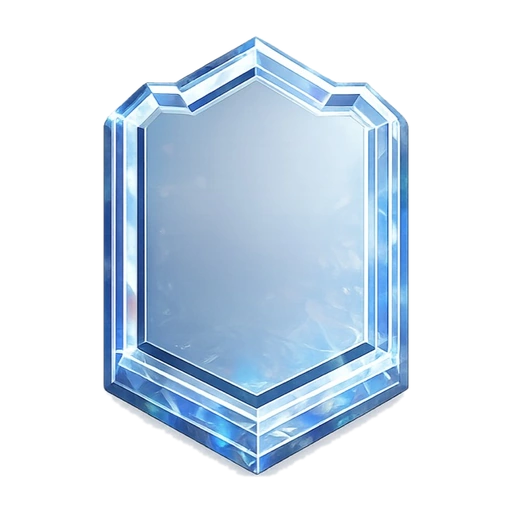
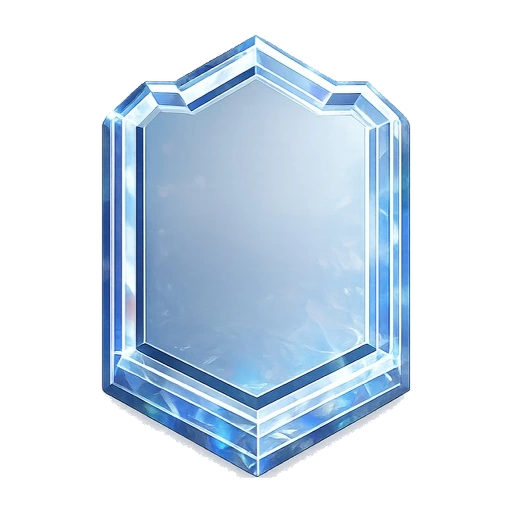
Polish badge edges and board density

Changed region(s): [[0.1875, 0.0625, 0.8125, 0.9375]]

diff --git a/templates/main.html b/templates/main.html
@@ -10,7 +10,7 @@
     <link rel="icon" type="image/png" sizes="192x192" href="{{ url_for('static', filename='assets/app-icon-192.png') }}?v=8">
     <link rel="manifest" href="{{ url_for('static', filename='manifest.webmanifest') }}?v=8">
     <title>Set Counter</title>
-    <link rel="stylesheet" href="{{ url_for('static', filename='css/style.css') }}?v=64">
+    <link rel="stylesheet" href="{{ url_for('static', filename='css/style.css') }}?v=65">
   </head>
   <body>
     <main class="app-shell" id="home">
@@ -28,7 +28,7 @@
           </div>
           <div class="home-profile-row">
             <p class="user-badge" id="userBadgeLabel">
-              <span class="level-badge iron" aria-label="브론즈 레벨 1" data-rank="BRONZE"><img class="level-badge-image" src="{{ url_for('static', filename='assets/level-badges/rank-01.webp') }}" alt="" aria-hidden="true" decoding="async"><span class="level-badge-number">1</span></span>
+              <span class="level-badge iron" aria-label="브론즈 레벨 1" data-rank="BRONZE"><img class="level-badge-image" src="{{ url_for('static', filename='assets/level-badges/rank-01.webp') }}?v=2" alt="" aria-hidden="true" decoding="async"><span class="level-badge-number">1</span></span>
               <span class="nickname-text">닉네임</span>
             </p>
             <span>LV. <strong id="levelValue">1</strong> · 누적 <strong id="totalVolumeValue">0kg</strong></span>
@@ -277,7 +277,7 @@
           <form class="board-form" id="boardForm">
             <div class="board-composer-author">
               <div class="board-author" id="boardAuthor">
-                <span class="level-badge iron" aria-label="브론즈 레벨 1" data-rank="BRONZE"><img class="level-badge-image" src="{{ url_for('static', filename='assets/level-badges/rank-01.webp') }}" alt="" aria-hidden="true" decoding="async"><span class="level-badge-number">1</span></span>
+                <span class="level-badge iron" aria-label="브론즈 레벨 1" data-rank="BRONZE"><img class="level-badge-image" src="{{ url_for('static', filename='assets/level-badges/rank-01.webp') }}?v=2" alt="" aria-hidden="true" decoding="async"><span class="level-badge-number">1</span></span>
                 <span class="nickname-text">닉네임</span>
               </div>
               <span>인증된 운동 레벨</span>
@@ -313,7 +313,7 @@
             <div class="menu-profile-copy">
               <p class="menu-section-kicker">ATHLETE PROFILE</p>
               <div class="user-badge" id="menuUserBadge">
-                <span class="level-badge iron" aria-label="브론즈 레벨 1" data-rank="BRONZE"><img class="level-badge-image" src="{{ url_for('static', filename='assets/level-badges/rank-01.webp') }}" alt="" aria-hidden="true" decoding="async"><span class="level-badge-number">1</span></span>
+                <span class="level-badge iron" aria-label="브론즈 레벨 1" data-rank="BRONZE"><img class="level-badge-image" src="{{ url_for('static', filename='assets/level-badges/rank-01.webp') }}?v=2" alt="" aria-hidden="true" decoding="async"><span class="level-badge-number">1</span></span>
                 <h2 class="nickname-text" id="menuProfileTitle">닉네임</h2>
               </div>
             </div>
@@ -411,7 +411,7 @@
             <span class="level-up-particle" data-x="106" data-y="-5"></span>
             <span class="level-up-particle" data-x="88" data-y="68"></span>
             <span class="level-up-crest" id="levelUpCrest">
-              <img class="level-up-badge-image" id="levelUpBadgeImage" src="{{ url_for('static', filename='assets/level-badges/rank-01.webp') }}" alt="" decoding="async">
+              <img class="level-up-badge-image" id="levelUpBadgeImage" src="{{ url_for('static', filename='assets/level-badges/rank-01.webp') }}?v=2" alt="" decoding="async">
               <span class="level-up-sheen" id="levelUpSheen"></span>
               <span class="level-up-rank" id="levelUpRankName">IRON</span>
               <small>LEVEL</small>
@@ -695,6 +695,6 @@
     </div>
     <script src="{{ url_for('static', filename='vendor/gsap.min.js') }}?v=3.15.0"></script>
     <script src="{{ url_for('static', filename='js/motion.js') }}?v=2"></script>
-    <script src="{{ url_for('static', filename='js/app.js') }}?v=83"></script>
+    <script src="{{ url_for('static', filename='js/app.js') }}?v=84"></script>
   </body>
 </html>

diff --git a/static/js/app.js b/static/js/app.js
@@ -255,17 +255,17 @@ function escapeHtml(value) {
 }
 
 const levelTiers = [
-  { minimum: 95, className: "champion", label: "PRISM", labelKo: "프리즘", image: "/static/assets/level-badges/rank-11.webp" },
-  { minimum: 90, className: "crown", label: "OBSIDIAN", labelKo: "옵시디언", image: "/static/assets/level-badges/rank-10.webp" },
-  { minimum: 80, className: "crimson", label: "CRIMSON", labelKo: "크림슨", image: "/static/assets/level-badges/rank-09.webp" },
-  { minimum: 70, className: "black-diamond", label: "AMETHYST", labelKo: "아메시스트", image: "/static/assets/level-badges/rank-08.webp" },
-  { minimum: 60, className: "diamond", label: "SAPPHIRE", labelKo: "사파이어", image: "/static/assets/level-badges/rank-07.webp" },
-  { minimum: 50, className: "platinum", label: "FROST", labelKo: "프로스트", image: "/static/assets/level-badges/rank-06.webp" },
-  { minimum: 40, className: "red-gold", label: "GOLD", labelKo: "골드", image: "/static/assets/level-badges/rank-05.webp" },
-  { minimum: 30, className: "gold", label: "SILVER", labelKo: "실버", image: "/static/assets/level-badges/rank-04.webp" },
-  { minimum: 20, className: "silver", label: "ROSE", labelKo: "로즈", image: "/static/assets/level-badges/rank-03.webp" },
-  { minimum: 10, className: "bronze", label: "STEEL", labelKo: "스틸", image: "/static/assets/level-badges/rank-02.webp" },
-  { minimum: 1, className: "iron", label: "BRONZE", labelKo: "브론즈", image: "/static/assets/level-badges/rank-01.webp" },
+  { minimum: 95, className: "champion", label: "PRISM", labelKo: "프리즘", image: "/static/assets/level-badges/rank-11.webp?v=2" },
+  { minimum: 90, className: "crown", label: "OBSIDIAN", labelKo: "옵시디언", image: "/static/assets/level-badges/rank-10.webp?v=2" },
+  { minimum: 80, className: "crimson", label: "CRIMSON", labelKo: "크림슨", image: "/static/assets/level-badges/rank-09.webp?v=2" },
+  { minimum: 70, className: "black-diamond", label: "AMETHYST", labelKo: "아메시스트", image: "/static/assets/level-badges/rank-08.webp?v=2" },
+  { minimum: 60, className: "diamond", label: "SAPPHIRE", labelKo: "사파이어", image: "/static/assets/level-badges/rank-07.webp?v=2" },
+  { minimum: 50, className: "platinum", label: "FROST", labelKo: "프로스트", image: "/static/assets/level-badges/rank-06.webp?v=2" },
+  { minimum: 40, className: "red-gold", label: "GOLD", labelKo: "골드", image: "/static/assets/level-badges/rank-05.webp?v=2" },
+  { minimum: 30, className: "gold", label: "SILVER", labelKo: "실버", image: "/static/assets/level-badges/rank-04.webp?v=2" },
+  { minimum: 20, className: "silver", label: "ROSE", labelKo: "로즈", image: "/static/assets/level-badges/rank-03.webp?v=2" },
+  { minimum: 10, className: "bronze", label: "STEEL", labelKo: "스틸", image: "/static/assets/level-badges/rank-02.webp?v=2" },
+  { minimum: 1, className: "iron", label: "BRONZE", labelKo: "브론즈", image: "/static/assets/level-badges/rank-01.webp?v=2" },
 ];
 
 function levelTier(level) {

diff --git a/static/css/style.css b/static/css/style.css
@@ -8087,3 +8087,135 @@ body.keyboard-open :is(.profile-dialog, .exercise-library-dialog, .exercise-step
     background-position: 50% 50%;
   }
 }
+
+/* Unified level numerals and denser community cards */
+.level-badge:not(.champion) .level-badge-number,
+.level-up-emblem:not(.champion) strong {
+  color: #ffffff;
+  text-shadow:
+    0 1px 1px #000000,
+    0 0 3px #000000,
+    0 2px 5px rgba(0, 0, 0, 0.96);
+}
+
+[data-screen="board"] > .screen-header {
+  min-height: 48px;
+  margin-bottom: 10px;
+}
+
+[data-screen="board"] .board-community-strip span {
+  min-height: 48px;
+  gap: 3px;
+  padding: 6px 10px;
+}
+
+[data-screen="board"] .board-community-strip span + span::before {
+  top: 8px;
+  bottom: 8px;
+}
+
+[data-screen="board"] .board-intro {
+  margin: 12px 2px 8px;
+}
+
+[data-screen="board"] .board-form {
+  gap: 8px;
+  padding: 10px;
+}
+
+[data-screen="board"] .board-author,
+[data-screen="board"] .board-comment .board-author {
+  gap: 7px;
+  border-color: transparent;
+  background: transparent;
+  padding: 0;
+  box-shadow: none;
+}
+
+[data-screen="board"] .board-workout-proof {
+  gap: 6px;
+  padding: 8px 10px;
+}
+
+[data-screen="board"] .board-compose-field textarea {
+  min-height: 82px;
+  padding: 10px 11px 26px;
+  line-height: 1.42;
+}
+
+[data-screen="board"] .board-compose-field > .board-char-count {
+  right: 9px;
+  bottom: 7px;
+}
+
+[data-screen="board"] .board-compose-actions {
+  gap: 8px;
+}
+
+[data-screen="board"] .board-compose-actions .confirm-button,
+[data-screen="board"] .board-tabs button,
+[data-screen="board"] .board-comment-form input,
+[data-screen="board"] .board-comment-form button,
+[data-screen="board"] .board-comment .board-comment-report {
+  min-height: 44px;
+}
+
+[data-screen="board"] .board-tabs {
+  margin: 11px 0 7px;
+  padding: 3px;
+}
+
+[data-screen="board"] .board-list {
+  gap: 7px;
+}
+
+[data-screen="board"] .board-post {
+  padding: 10px 11px;
+}
+
+[data-screen="board"] .board-post .board-post-content {
+  margin-top: 9px;
+  line-height: 1.45;
+}
+
+[data-screen="board"] .board-actions {
+  min-height: 44px;
+  margin-top: 9px;
+  padding: 2px 0;
+}
+
+[data-screen="board"] .board-action-button {
+  min-width: 48px;
+  min-height: 44px;
+  padding-inline: 8px;
+}
+
+[data-screen="board"] .board-comments {
+  margin-top: 7px;
+}
+
+[data-screen="board"] .board-comment {
+  gap: 7px;
+  padding: 8px;
+}
+
+[data-screen="board"] .board-comment-body {
+  gap: 3px;
+  padding-top: 3px;
+}
+
+[data-screen="board"] .board-comment-form {
+  padding: 7px 8px;
+}
+
+[data-screen="board"] .board-post-skeleton {
+  min-height: 116px;
+}
+
+[data-screen="board"] .board-empty-state {
+  min-height: 138px;
+}
+
+body:has([data-screen="board"].is-active) .bottom-nav button {
+  min-height: 48px;
+}
